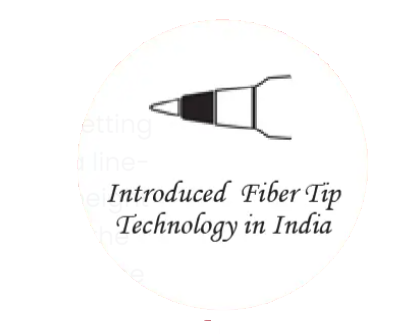
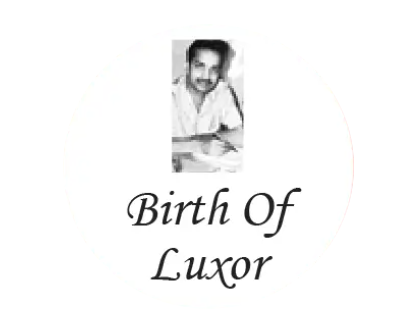
added images

Changed region(s): [[0.2488, 0.1198, 0.8397, 0.8683], [0.622, 0.3892, 0.7153, 0.4192]]

diff --git a/components/ImageMap/index.js b/components/ImageMap/index.js
@@ -5,7 +5,8 @@ import gsap from "gsap";
 import ScrollTrigger from "gsap/ScrollTrigger";
 import Flip from "gsap/Flip";
 import Draggable from "gsap/Draggable";
-import jr_one from 'public/assets/journey_images/jr_one.png'
+import jr_one from 'public/assets/journey_images/jr_one_old.png'
+import jr_two from 'public/assets/journey_images/jr_two.png'
 // or all tools are exported from the "all" file (excluding members-only plugins):
 import { MotionPathPlugin } from "gsap/all";
 import Image from 'next/image';
@@ -26,7 +27,8 @@ function index() {
         img1.style.cursor="pointer"
         let image_visible = document.getElementById(bannerImage)
         console.log("bannerImagebannerImage" , bannerImage)
-        if(bannerImage=="jr_circle"){
+        
+         if(bannerImage=="jr_circle"){
             let dynamicImage = document.createElement('img');
              dynamicImage.src = jr_one.src
              dynamicImage.width =180
@@ -37,6 +39,19 @@ function index() {
              image_visible.append(dynamicImage)
             //  image_visible.append(p)
         }
+
+        if(bannerImage=="jr_circle2"){
+            let dynamicImage = document.createElement('img');
+             dynamicImage.src = jr_two.src
+             dynamicImage.width =180
+             dynamicImage.height =180
+             dynamicImage.alt ="intorduced fiber tip"
+             dynamicImage.style.display ="block"
+             image_visible.innerHTML=""
+             image_visible.append(dynamicImage)
+            //  image_visible.append(p)
+        }
+
      
 
         gsap.to(image_visible , {
@@ -72,6 +87,13 @@ function index() {
              image_visible.innerHTML=""
   
         }
+
+        
+        if(bannerImage=="jr_circle2"){
+            image_visible.innerHTML=""
+ 
+       }
+
      
 
 

diff --git a/styles/globals.css b/styles/globals.css
@@ -1780,11 +1780,6 @@ transition: all 1s ease; */
 
 
 
-
-
-
-
-
 #jr_img5 {
   position: absolute;
   width: 120px;
